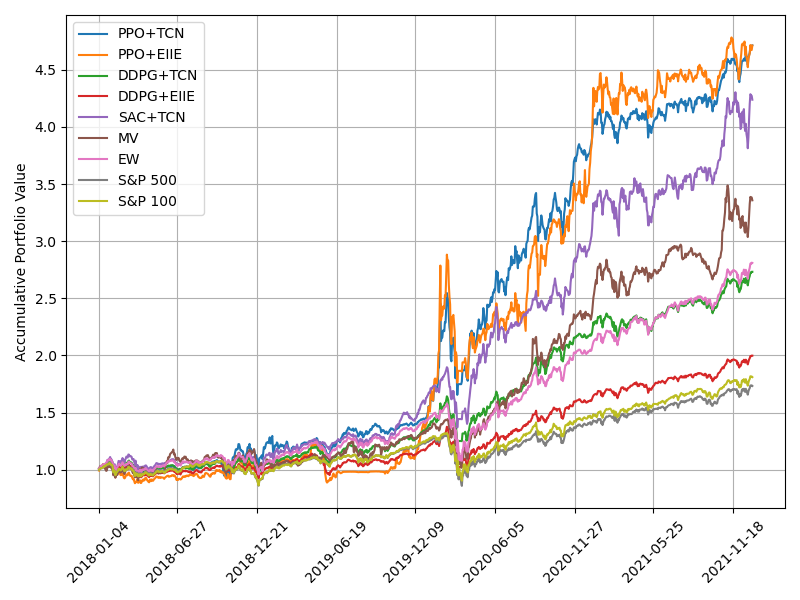
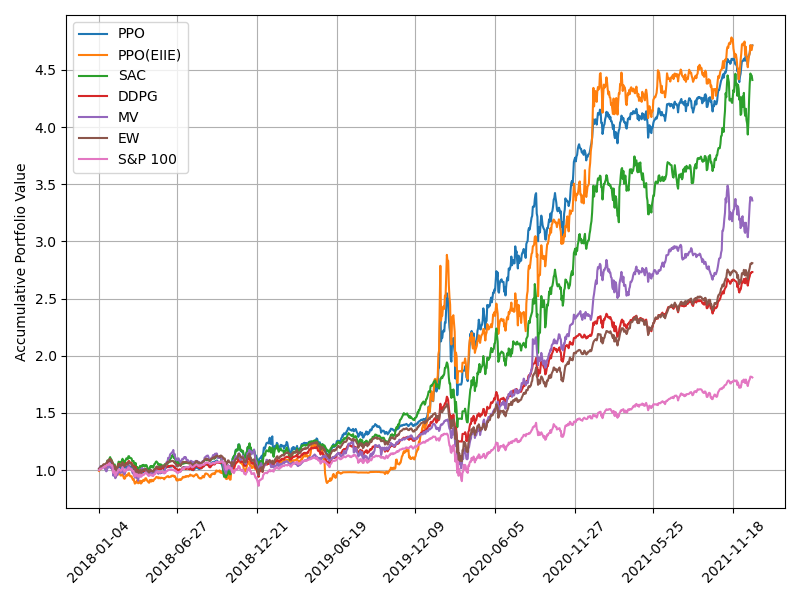
0511

diff --git a/final.py b/final.py
@@ -8,8 +8,8 @@ import matplotlib.dates as mdates
 PPO_TCN_PATH = 'save_/result/PPO_TCN'
 PPO_EIIE_PATH = 'save_/result/PPO_EIIE'
 DDPG_TCN_PATH = 'save_/result/DDPG_TCN'
-DDPG_EIIE_PATH = 'save_/result/DDPG_EIIE'
-SAC_TCN_PATH = 'save_/2022-05-05/165038'
+#DDPG_EIIE_PATH = 'save_/result/DDPG_EIIE'
+SAC_TCN_PATH = 'save_/result/SAC'
 # turbulance
 TU_140 = PPO_TCN_PATH
 TU_NONE = 'save_/result/PPO_TCN_notu'
@@ -54,18 +54,18 @@ def fig_setting(ax, legend, file):
 
 
 def final():
-    ppo_tcn, mv, ew, sp500, sp100, dates = load_values(PPO_TCN_PATH)
+    ppo_tcn, mv, ew, _, sp100, dates = load_values(PPO_TCN_PATH)
     ppo_eiie = load_values(PPO_EIIE_PATH)[0]
     ddpg_tcn = load_values(DDPG_TCN_PATH)[0]
-    ddpg_eiie = load_values(DDPG_EIIE_PATH)[0]
+    #ddpg_eiie = load_values(DDPG_EIIE_PATH)[0]
     sac_tcn = load_values(SAC_TCN_PATH)[0]
     plt.figure(figsize=(8, 6))
     ax = plt.subplot()
     ax.plot(dates, ppo_tcn, dates, ppo_eiie)
-    ax.plot(dates, ddpg_tcn, dates, ddpg_eiie)
     ax.plot(dates, sac_tcn)
-    ax.plot(dates, mv, dates, ew, dates, sp500, dates, sp100)
-    legend = ['PPO+TCN', 'PPO+EIIE', 'DDPG+TCN', 'DDPG+EIIE', 'SAC+TCN', 'MV', 'EW', 'S&P 500', 'S&P 100']
+    ax.plot(dates, ddpg_tcn)
+    ax.plot(dates, mv, dates, ew, dates, sp100)
+    legend = ['PPO', 'PPO (EIIE)', 'SAC', 'DDPG', 'MV', 'EW', 'S&P 100']
     f = 'final'
     fig_setting(ax, legend, f)
 

diff --git a/test.py b/test.py
@@ -50,6 +50,7 @@ def test(args, agent, recorder, target_stocks, test_history,
         
         state = generate_state(observation)
         current_weights = init_action.copy()
+        old_action = init_action.copy()
         eqwt_action = get_init_action(action_dim, ew=True)
         trade = True
         for t in itertools.count(start=1): 
@@ -57,7 +58,7 @@ def test(args, agent, recorder, target_stocks, test_history,
                 if args.algo == 'PPO':
                     use_action, action, _, _ = agent.choose_action(state, current_weights)
                 elif args.algo == 'DDPG':
-                    use_action = agent.choose_action(state, current_weights, noise_inp=False)
+                    use_action = agent.choose_action(state, old_action, noise_inp=False)
                 elif args.algo == 'SAC':
                     _, use_action, _ = agent.choose_action(state, current_weights)
             else:
@@ -69,7 +70,7 @@ def test(args, agent, recorder, target_stocks, test_history,
             trajectory_reward += reward
             state_ = generate_state(next_observation)
             state = state_
-
+            old_action = use_action
             recorder.test.record_trades(use_action, trade_info)
             
             if n_episode == 0:   

diff --git a/utils/draw.py b/utils/draw.py
@@ -92,7 +92,7 @@ def show_test_results(args, recorder, target_stocks, test_num, iteration, test_d
     print('EW Value: {:.5f}, Diff= {:.2f}%, SR = {:.3f}, StR = {:.3f}, MDD = {:.3f}'.format(eqwt_return[-1], (final_value - eqwt_return[-1]) * 100, ew_sharpe, ew_sortino, ew_mdd))
     print('S&P 500 : {:.5f}, Diff= {:.2f}%'.format(sp500_return, (final_value - sp500_return) * 100))
     args.test_diff.append((final_value - eqwt_return[-1]) * 100)
-    output = '{:.3f} {:.3f} {:.3f} {:.3f}\n'.format(final_value, sharpe, sortino, mdd) 
+    output = '{:.3f} {:.3f} {:.3f} {:.3f} {:.3f}\n'.format(final_value, sharpe, sortino, mdd, recorder.test.cost/test_num) 
     return output
 
     

diff --git a/path.py b/path.py
@@ -1,3 +1,3 @@
 def test_path():
-    path = './save_/2022-05-06/114957/'
+    path = './save_/result/DDPG_TCN/'
     return path
